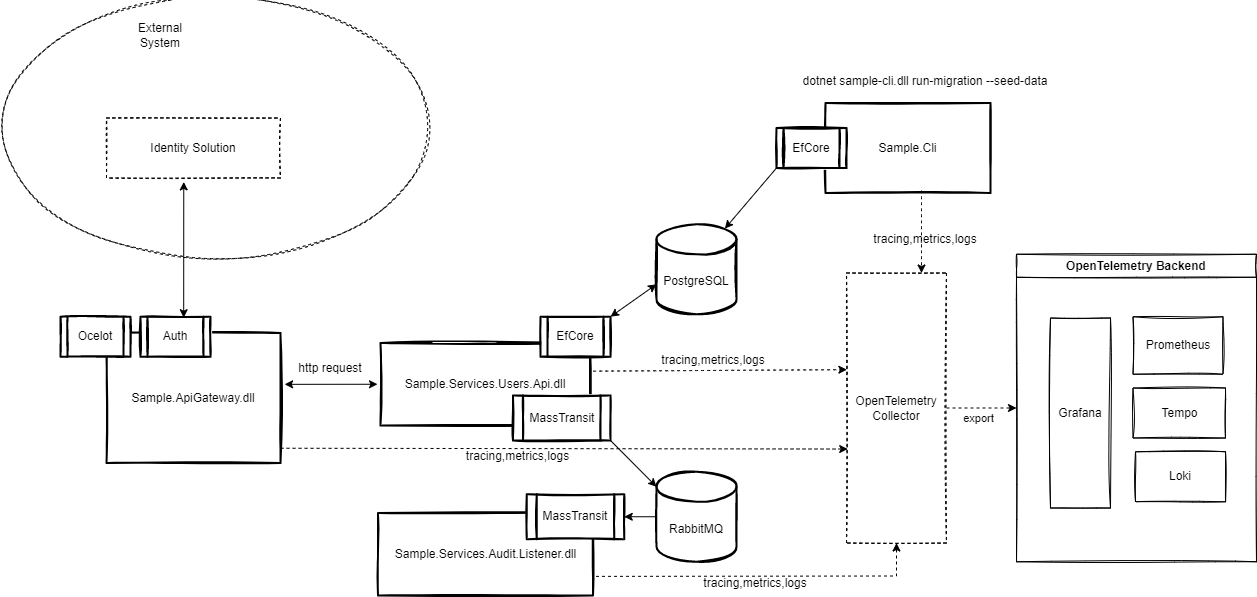
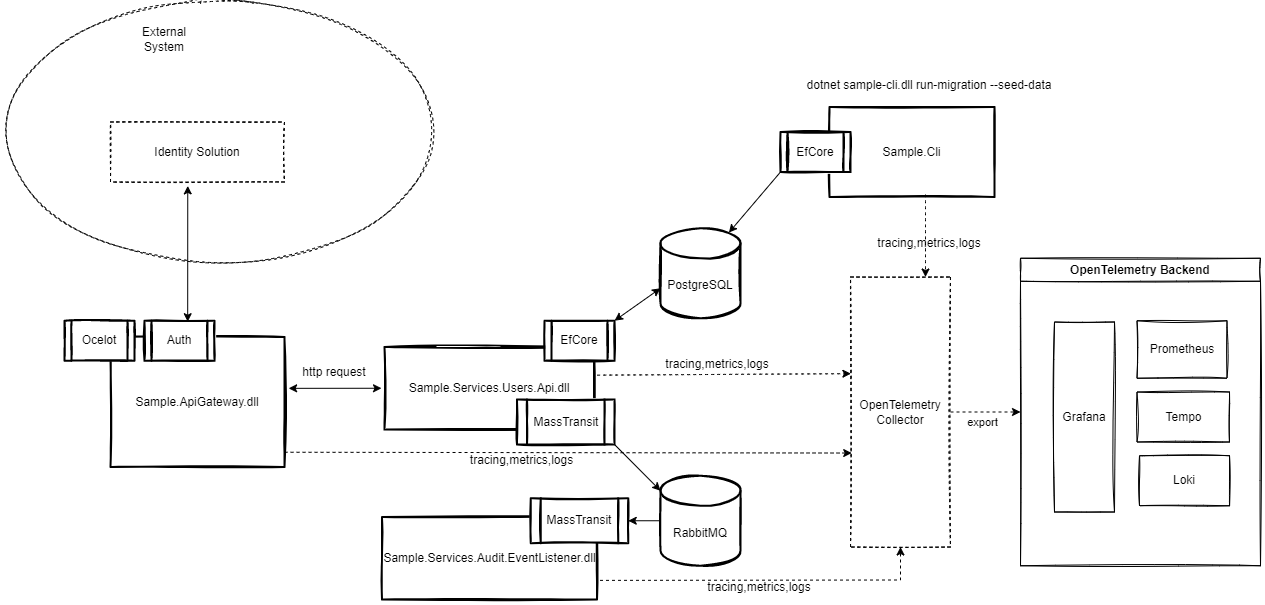
Add audit service consumer

diff --git a/src/Zamat.Sample.Services.Audit.EventListener/Program.cs b/src/Zamat.Sample.Services.Audit.EventListener/Program.cs
@@ -1,6 +1,6 @@
 using Zamat.AspNetCore.OpenTelemetry;
-using Zamat.Sample.Services.Audit.Consumer;
-using Zamat.Sample.Services.Audit.Consumer.EventHandlers;
+using Zamat.Sample.Services.Audit.EventListener;
+using Zamat.Sample.Services.Audit.EventListener.EventHandlers;
 
 using IHost host = Host.CreateDefaultBuilder(args)
     .ConfigureServices((hostContext, services) =>

diff --git a/src/Zamat.Sample.Services.Audit.EventListener/ServiceCollectionExtensions.cs b/src/Zamat.Sample.Services.Audit.EventListener/ServiceCollectionExtensions.cs
@@ -1,9 +1,9 @@
 using MassTransit;
 using MassTransit.Transport.RabbitMQ;
 using Microsoft.EntityFrameworkCore;
-using Zamat.Sample.Services.Audit.Consumer;
+using Zamat.Sample.Services.Audit.EventListener;
 
-namespace Zamat.Sample.Services.Audit.Consumer;
+namespace Zamat.Sample.Services.Audit.EventListener;
 
 public static class ServiceCollectionExtensions
 {

diff --git a/src/Zamat.Sample.Services.Audit.EventListener/EventHandlers/UserCreatedEventHandler.cs b/src/Zamat.Sample.Services.Audit.EventListener/EventHandlers/UserCreatedEventHandler.cs
@@ -2,7 +2,7 @@
 using Zamat.Common.Events.Bus;
 using Zamat.Sample.Services.Users.Core.Events;
 
-namespace Zamat.Sample.Services.Audit.Consumer.EventHandlers;
+namespace Zamat.Sample.Services.Audit.EventListener.EventHandlers;
 
 class UserCreatedEventHandler : IEventHandler<UserCreated>, IConsumer<UserCreated>
 {
